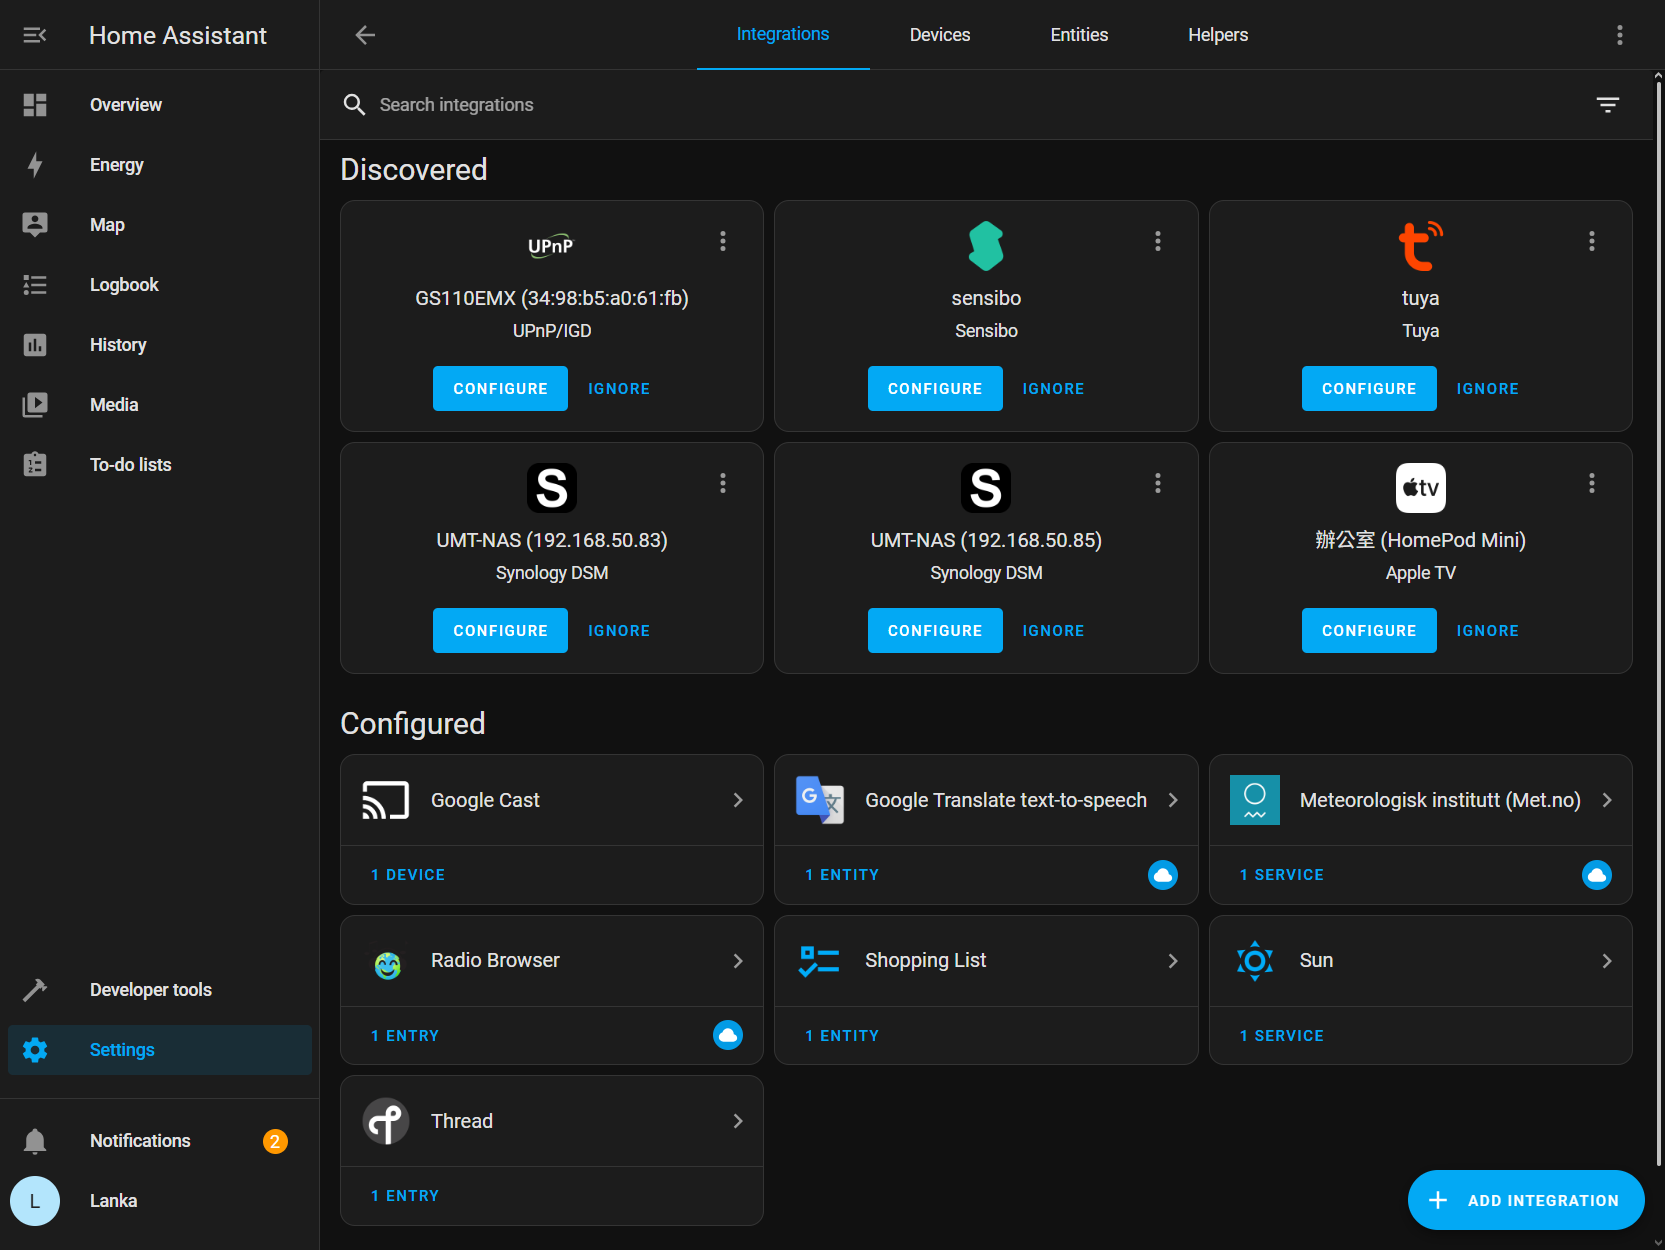
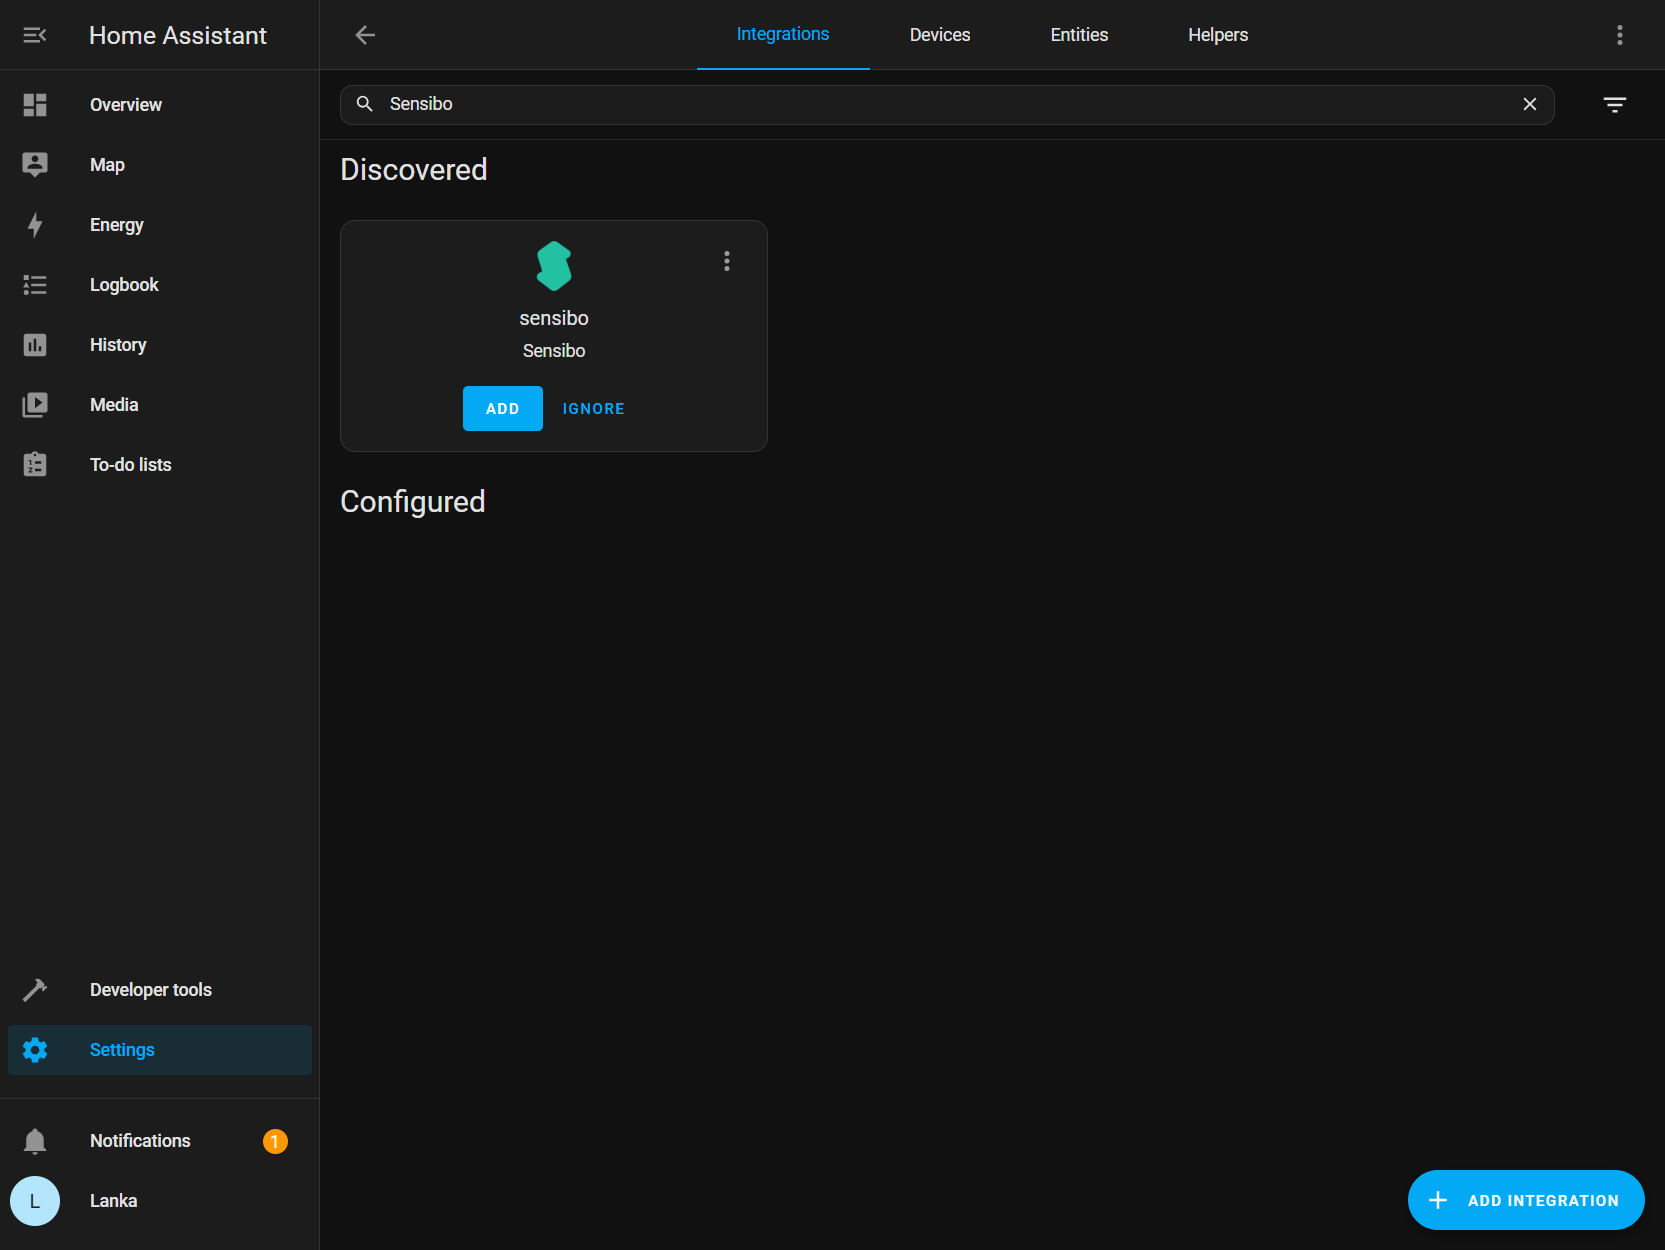
update helper_IoT-HomeAssistant.md, 3.3. Home Assistant Community Store (HACS)

diff --git a/helper_IoT-HomeAssistant.md b/helper_IoT-HomeAssistant.md
@@ -100,11 +100,11 @@
 >
 > The **Sensibo** integration integrates [Sensibo](https://sensibo.com/) devices into Home Assistant.
 
-### 3.1.1. Install
+### 3.1.1. Setup
 
-#### A. Discovered
+#### A.  Search Integrations
 
-> click `Sensibo`
+> key in : Sensibo
 
 <img src="./images/HomeAssistant0102.png" alt="HomeAssistant0102" style="zoom:33%;" />
 
@@ -132,7 +132,7 @@
 >
 > The ONVIF camera integration allows you to use an [ONVIF](https://www.onvif.org/) Profile S conformant device in Home Assistant. This requires the [`ffmpeg` integration](https://www.home-assistant.io/integrations/ffmpeg/) to be already configured.
 
-### 3.2.1. Install
+### 3.2.1. Setup
 
 #### A. Search Integrations
 
@@ -160,67 +160,127 @@
 
 <img src="./images/HomeAssistant0208.png" alt="HomeAssistant0208" style="zoom:33%;" />
 
-## 3.3. Tuya
+## 3.3. Home Assistant Community Store (HACS)
 
-> [Tuya](https://www.home-assistant.io/integrations/tuya)
+> 就是軟體商店。非內建，而且需要與個人的 [GitHub](https://github.com) 帳號綁定（GitHub 不是 open 嗎？）。
+
+> [HACS](https://www.hacs.xyz)
 >
-> The Tuya integration integrates all Powered by Tuya devices you have added to the Tuya Smart and Tuya Smart Life apps.
+> The Home Assistant Community Store (HACS) is a custom integration that provides a UI to manage custom elements in [Home Assistant](https://www.home-assistant.io/).
 >
-> All Home Assistant platforms are supported by the Tuya integration, except the lock and remote platform.
-
-> [How to Install Smart Life Integration (Beta)](https://developer.tuya.com/en/docs/iot/Smart_Life_Integration?id=Kd0gk9baikbb7)
+> What HACS can do:
 >
-> This topic describes how to install and use the Smart Life integration for Home Assistant.
+> - Help you discover new custom elements.
+> - Help you download new custom elements.
+> - Manage (update/remove) custom elements.
+> - Publish your own custom element repository and create shortcuts to repositories or issue trackers.
 
-### 3.3.1. Get User Code
+### 3.3.1. Install
 
-#### A. SmartLife APP
+#### A. Start using HACS
 
-<img src="./images/HomeAssistant0301.png" alt="HomeAssistant0301" style="zoom: 25%;" />
+> https://www.hacs.xyz
 
-#### B. Setting
+<img src="./images/HomeAssistant0401.png" alt="HomeAssistant0401" style="zoom: 33%;" />
 
-<img src="./images/HomeAssistant0302.png" alt="HomeAssistant0302" style="zoom:25%;" />
+#### B. [Download HACS](https://www.hacs.xyz/docs/use/download/download/)
 
-#### C. Account and Security
+<img src="./images/HomeAssistant0402.png" alt="HomeAssistant0402" style="zoom:33%;" />
 
-<img src="./images/HomeAssistant0303.png" alt="HomeAssistant0303" style="zoom:25%;" />
+> 點選後就會有二種方式進行安裝，如果該主機能使用 SSH 或是 TREMINAL，建議使用 `Run the HACS download script`
 
-#### D. User Code
+##### B.1. [OS/Supervised](https://www.hacs.xyz/docs/use/download/download/#to-download-hacs-ossupervised)
 
-<img src="./images/HomeAssistant0304.png" alt="HomeAssistant0304" style="zoom:25%;" />
+> 點選 [my link](https://my.home-assistant.io/redirect/supervisor_addon/?addon=cb646a50_get&repository_url=https%3A%2F%2Fgithub.com%2Fhacs%2Faddons).
 
-### 3.2.2. Install
+<img src="./images/HomeAssistant0403.png" alt="HomeAssistant0403" style="zoom:33%;" />
+
+> 更新主機的 IP:PORT
+
+<img src="./images/HomeAssistant0404.png" alt="HomeAssistant0404" style="zoom:33%;" />
+
+> 之後會跳轉到登入畫面，進行登入後發生
+
+```log
+This redirect is not supported by your Home Assistant installation. It needs either the Home Assistant Operating System or Home Assistant Supervised installation method. For more information, see the documentation.
+```
+
+<img src="./images/HomeAssistant0405.png" alt="HomeAssistant0404" style="zoom:33%;" />
+
+##### B.2. Run the HACS download script
+
+<img src="./images/HomeAssistant0403a.png" alt="HomeAssistant0403a" style="zoom:33%;" />
+
+> 這個要進到作業系統進行操作
+
+```bash
+$ wget -O - https://get.hacs.xyz | bash -
+```
+
+> 它的工作大概如下
+
+```bash
+# 設定檔案存於 /root/.homeassistant
+$ mkdir -p /root/.homeassistant/custom_components
+$ cd /root/.homeassistant/custom_components
+$ wget https://github.com/hacs/integration/releases/latest/download/hacs.zip
+$ unzip hacs.zip -d hacs
+$ rm hacs.zip
+
+$ systemctl restart homeassistant.service
+```
+
+### 3.2.2. Setup
 
 #### A. Search Integrations
 
-> key in : tuya
+> key in : hacs
 
-<img src="./images/HomeAssistant0305.png" alt="HomeAssistant0305" style="zoom:33%;" />
+<img src="./images/HomeAssistant0411.png" alt="HomeAssistant0411" style="zoom: 50%;" />
 
-#### B. Enter your Smart Life or Tuya Smart user code
+#### B. Acknowledge the questions
 
-<img src="./images/HomeAssistant0306.png" alt="HomeAssistant0306" style="zoom: 50%;" />
+<img src="./images/HomeAssistant0412.png" alt="HomeAssistant0412" style="zoom: 33%;" />
 
-#### C. Scan QR-code
+#### C. Get the Key
 
-> Please use `SmartLife APP` scan the QR-code
+> 得到 key 之後，點選 https://github.com/login/device
 
-<img src="./images/HomeAssistant0307.png" alt="HomeAssistant0307" style="zoom:50%;" />
+<img src="./images/HomeAssistant0413.png" alt="HomeAssistant0413" style="zoom: 50%;" />
 
-#### D. Configure Tuya devices
+#### D. Binding with GitHub
 
-<img src="./images/HomeAssistant0308.png" alt="HomeAssistant0308" style="zoom: 50%;" />
+> 登入後，就會進行綁定
+
+<img src="./images/HomeAssistant0414.png" alt="HomeAssistant0414" style="zoom: 33%;" />
+
+> 輸入之前得到的 Key
+
+<img src="./images/HomeAssistant0415.png" alt="HomeAssistant0415" style="zoom: 33%;" />
+
+<img src="./images/HomeAssistant0416.png" alt="HomeAssistant0416" style="zoom: 33%;" />
+
+<img src="./images/HomeAssistant0417.png" alt="HomeAssistant0417" style="zoom: 33%;" />
+
+#### D. Configure HACS
+
+<img src="./images/HomeAssistant0418.png" alt="HomeAssistant0418" style="zoom: 33%;" />
 
 ### 3.3.3. Overview
 
-<img src="./images/HomeAssistant0309.png" alt="HomeAssistant0309" style="zoom: 33%;" />
+> 點選 `HACS`
+
+<img src="./images/HomeAssistant0419.png" alt="HomeAssistant0419" style="zoom: 33%;" />
 
 # Appendix
 
 # I. Study
 
 ## I.1. [Home Assistant 智能家居](https://www.youtube.com/playlist?list=PLhIaxXZ92HbBYk5lXMgL9LEb8PrOqpXml)
+
+## I.2. [2025 Home Assistant 入坑完全指南 – SMART HOME 智慧家庭 EP 7](https://neiltw.com/ultimate-home-assistant-beginners-guide)
+
+## I.3. [Home Assistant 必裝外掛 HACS 安裝步驟詳解 – Home Assistant 手把手教學 EP 17](https://neiltw.com/hacs-install-guide)
 
 # II. Debug
 
